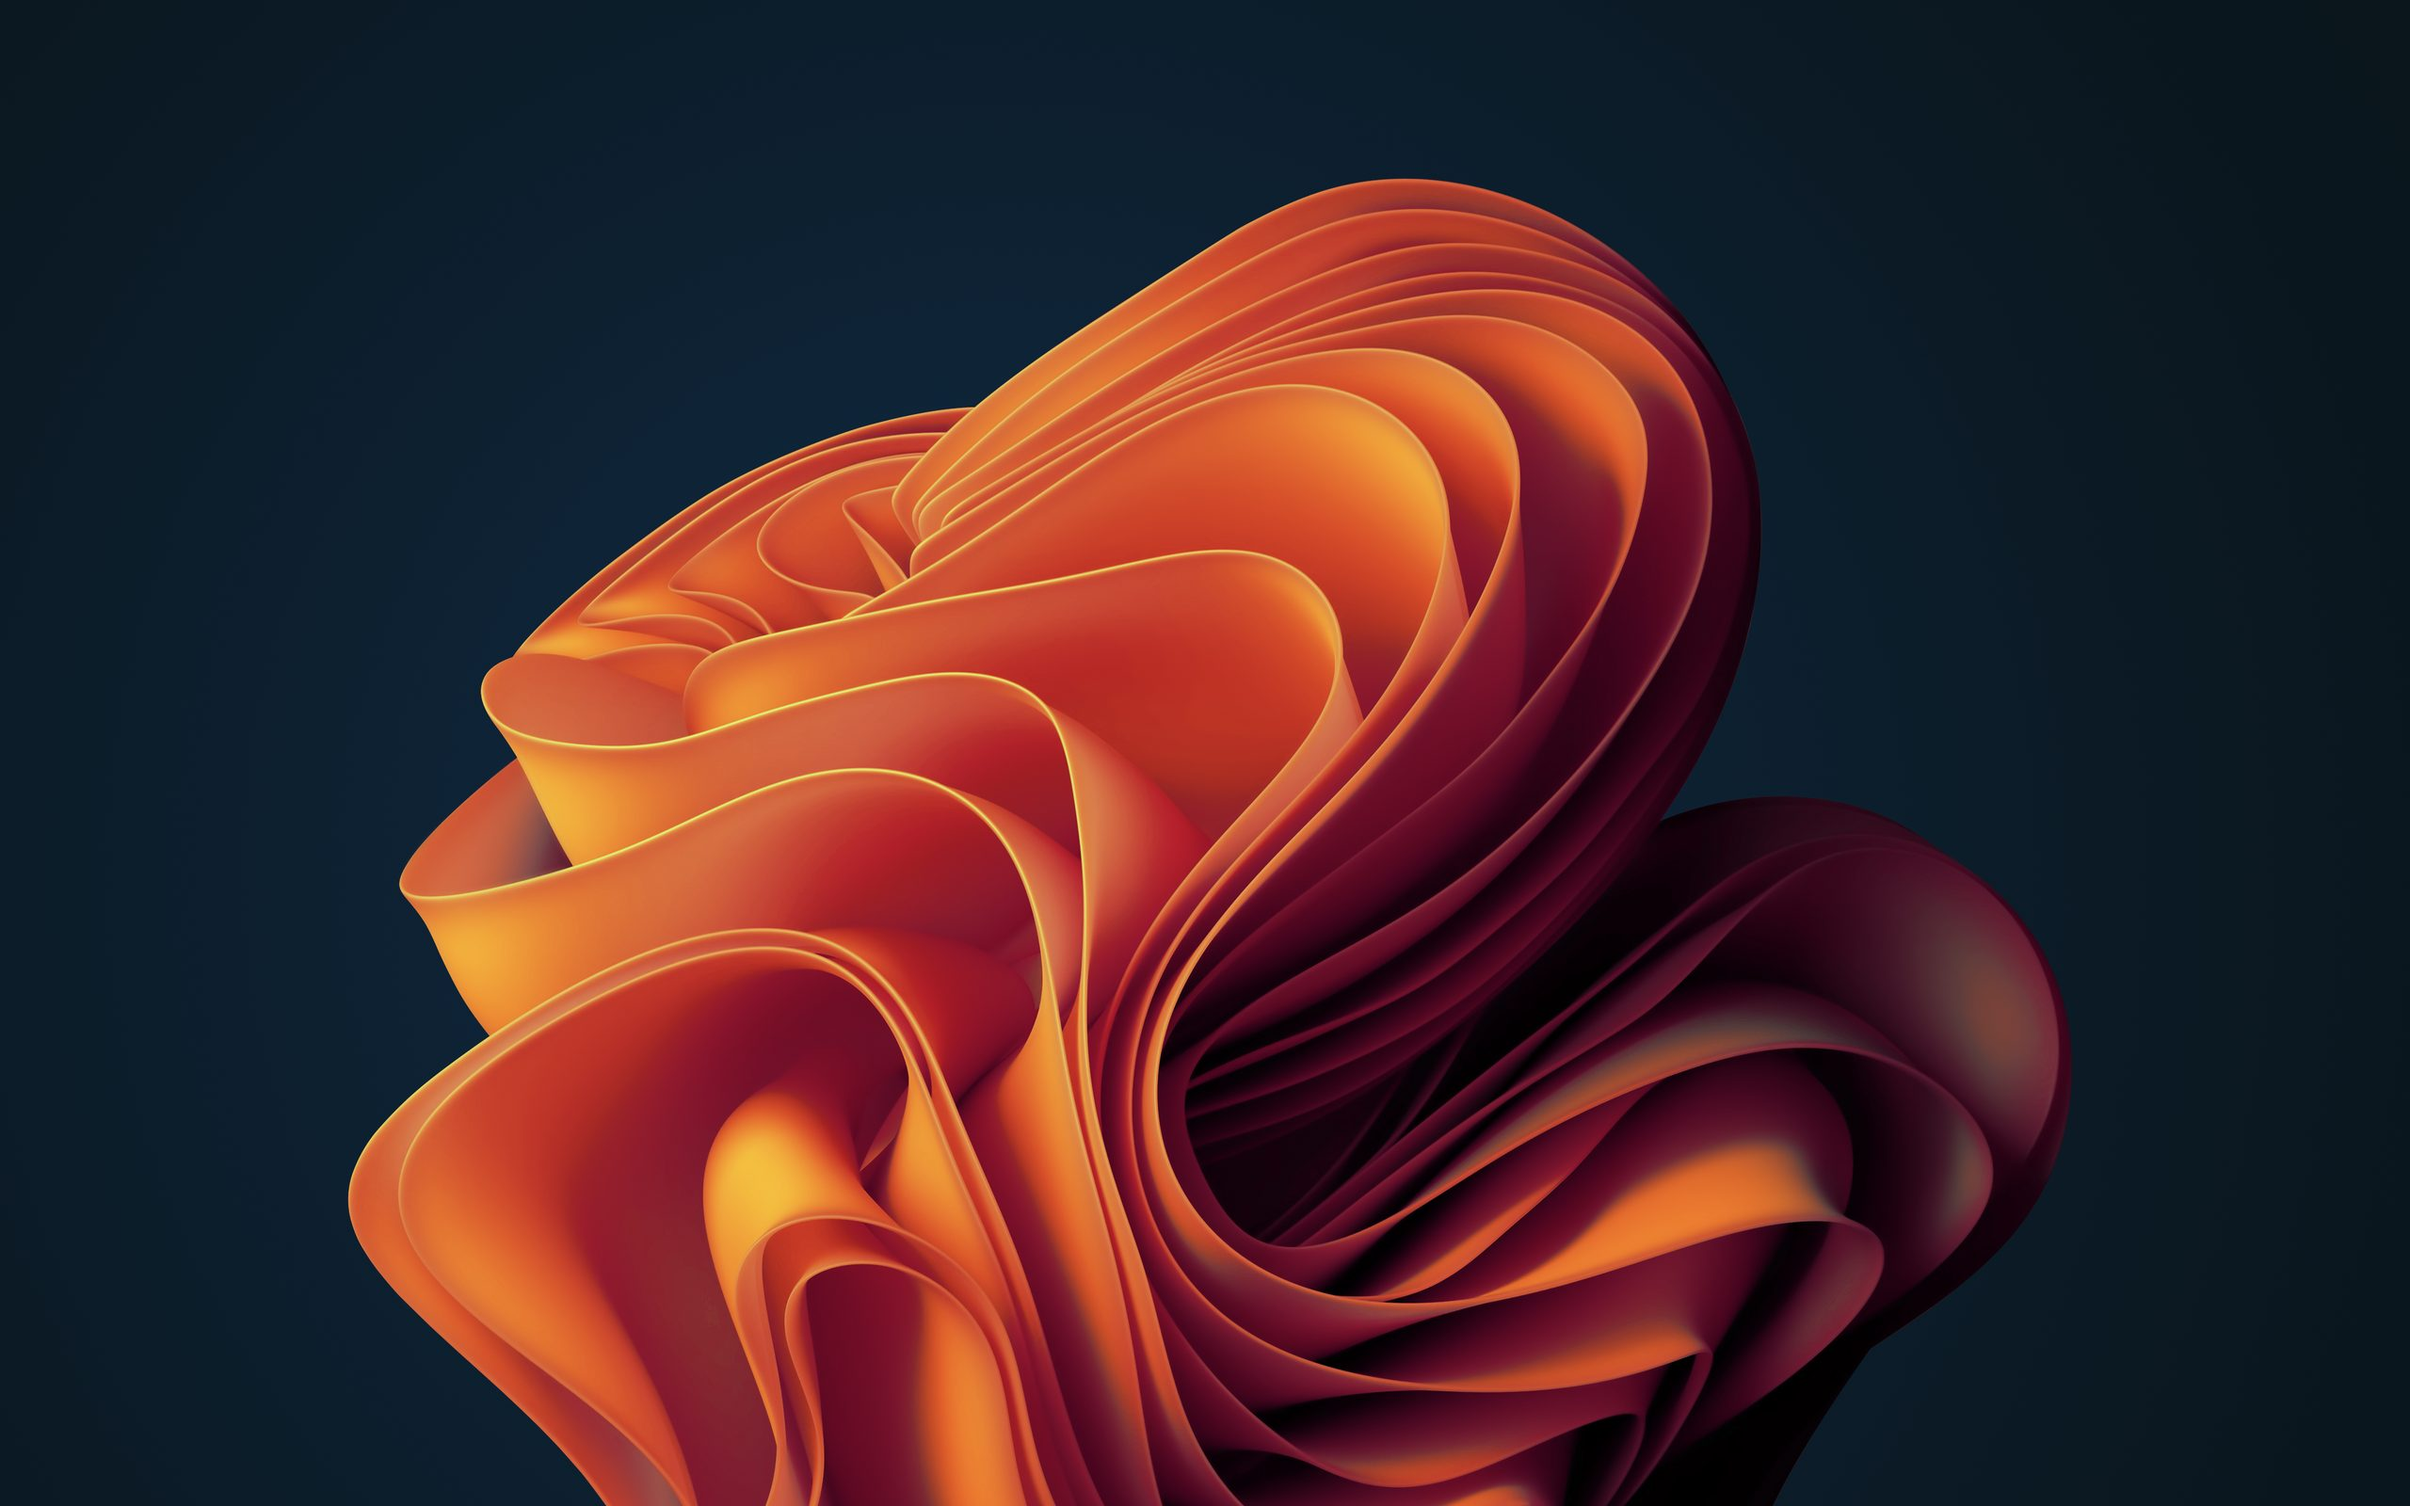
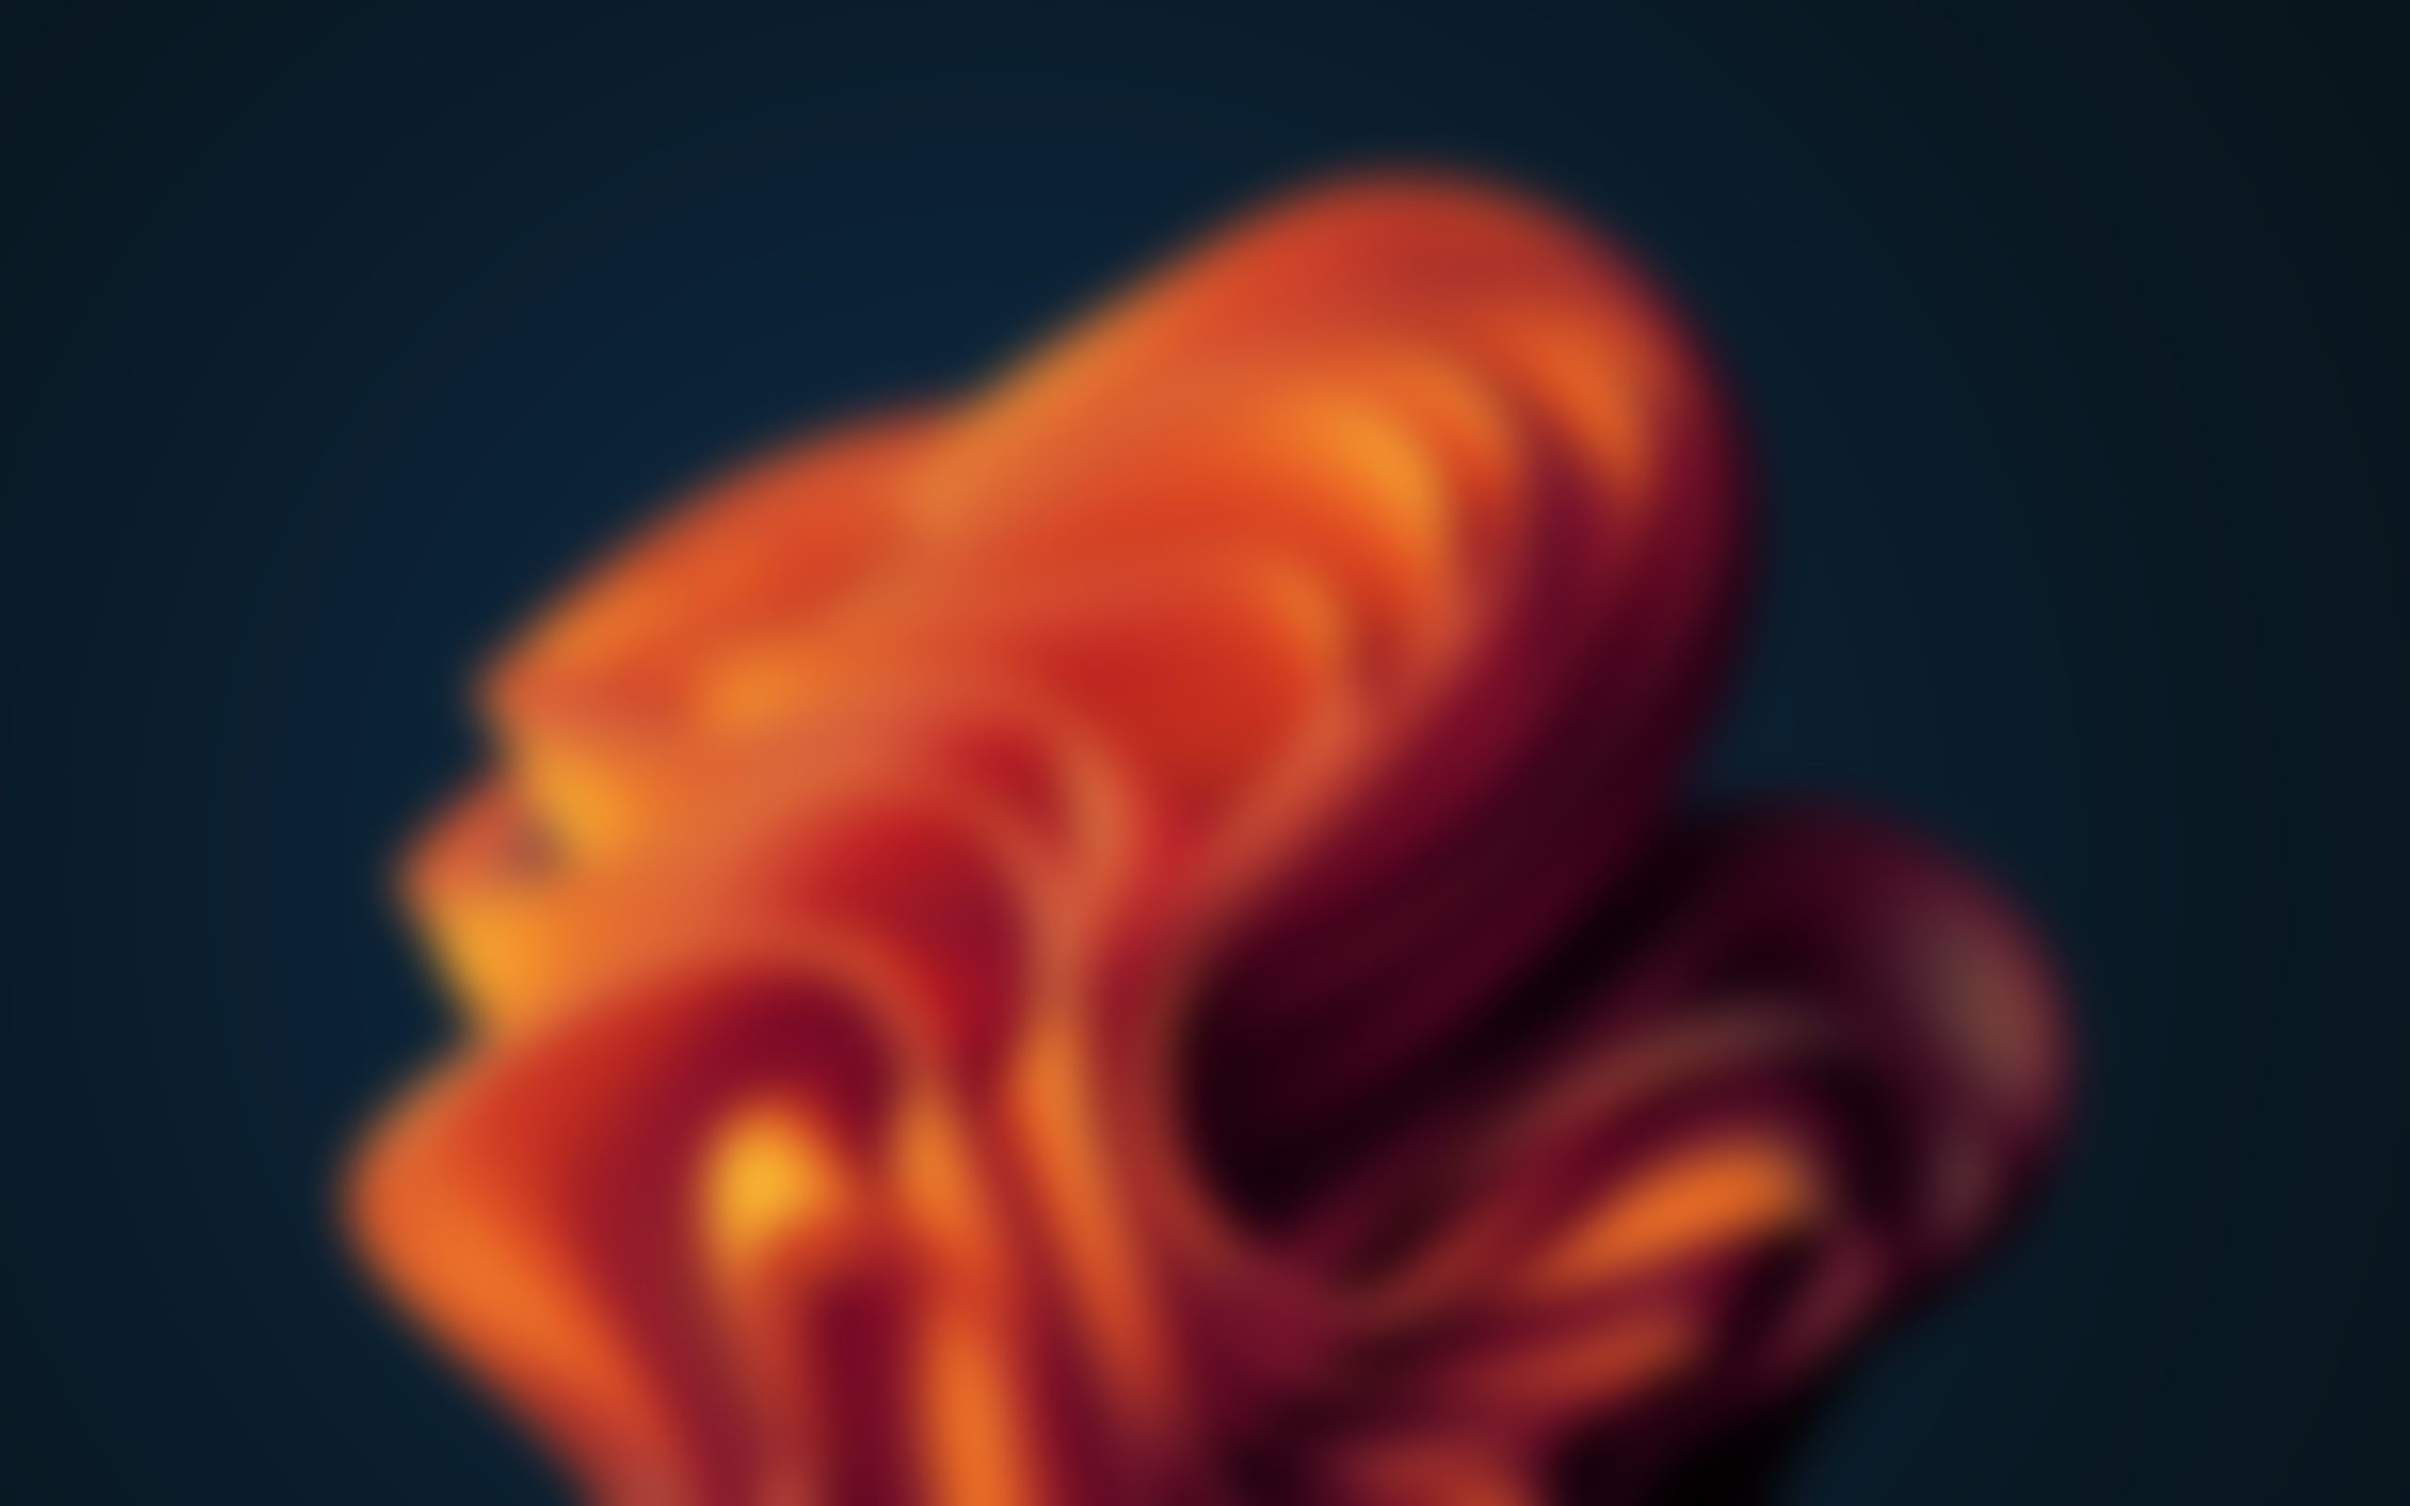
feat(themes): Codex 壁纸预模糊替代运行时滤镜，面板头部透明化
- 壁纸打包前预模糊（高斯 24px + 轻度提饱和），body::before 退化为纯淡色
  蒙版，去掉全屏 backdrop-filter：消除 Chromium 文字抗锯齿降级导致的发虚，
  同时 tint 提至 0.65 让侧栏文字更清晰
- PanelContainer 头部（文件/变更页签栏）新增 data-lq-panelhead 并透明化，
  消除右上角的白色条带

diff --git a/src/themes/liquidGlass.ts b/src/themes/liquidGlass.ts
@@ -2,11 +2,12 @@
  * Codex 主题（id: liquid-glass）
  *
  * 色板：照搬默认 Eucalyptus，light/dark 两套（保持主题自包含，逐值复制）
- * 风格：codex 桌面端形态 —— body::before 固定磨砂层统一模糊壁纸，
+ * 风格：codex 桌面端形态 —— 整体背景为预模糊的 Windows 11 壁纸
+ * （深色模式用暗色版），body::before 淡色蒙版形成均匀磨砂，
  * 系统标题栏/侧栏/右栏/聊天窗缝隙透明叠加其上；主聊天窗口为唯一的
- * 白底圆角卡片（白色顶栏 + 白色正文）；整体背景为 Windows 11 壁纸
- * （深色模式用暗色版），不依赖系统窗效；全主题无投影，靠发丝边分层，
- * 左右侧栏分割线默认隐藏、hover 显现。
+ * 白底圆角卡片（白色顶栏 + 白色正文）；全主题无投影，靠发丝边分层，
+ * 左右侧栏分割线默认隐藏、hover 显现；磨砂不依赖系统窗效与运行时
+ * backdrop-filter，避免文字抗锯齿降级。
  * css 同时为 .glass/.glass-alt 浮层注入白底磨砂背景与 backdrop-filter，
  * 独立于设置页的毛玻璃开关。
  */
@@ -190,16 +191,15 @@ export const liquidGlassStyle: ThemeStylePreset = {
   background-image: url('${codexWallpaperDark}');
 }
 
-/* 整体磨砂层：统一模糊壁纸，系统标题栏/侧栏/右栏/聊天窗缝隙等 chrome 区域透明叠加其上 */
+/* 整体磨砂层：淡色蒙版叠在预模糊壁纸上形成均匀磨砂。
+   不用运行时 backdrop-filter：全屏滤镜会让 Chromium 文字抗锯齿降级，字体发虚 */
 :root:root body::before {
   content: '';
   position: fixed;
   inset: 0;
   z-index: -1;
   pointer-events: none;
-  background-color: hsl(var(--bg-100) / 0.55);
-  -webkit-backdrop-filter: blur(24px) saturate(160%);
-  backdrop-filter: blur(24px) saturate(160%);
+  background-color: hsl(var(--bg-100) / 0.65);
 }
 
 :root:root #root {
@@ -262,6 +262,11 @@ export const liquidGlassStyle: ThemeStylePreset = {
 
   :root:root [data-lq-surface='bottom'] {
     border-top-width: 1px;
+  }
+
+  /* 右栏/底栏面板头部：透明叠加磨砂层 */
+  :root:root [data-lq-panelhead] {
+    background-color: transparent;
   }
 
   /* 左右侧栏分割线：默认隐藏，鼠标移上时显现 */

diff --git a/src/themes/themes.test.ts b/src/themes/themes.test.ts
@@ -156,11 +156,12 @@ describe('liquid glass floating layout css', () => {
     expect(css).toContain('data-lq-chatbody')
     expect(css).toContain('background-color: hsl(var(--bg-000));')
     expect(css).toMatch(/\[data-lq-header\] \{\s+background-color: hsl\(var\(--bg-000\)\);/)
-    // 整体磨砂层：body::before 统一模糊壁纸（覆盖系统标题栏与聊天窗四周缝隙）
-    expect(css).toMatch(/body::before \{[^}]*hsl\(var\(--bg-100\) \/ 0\.55\)/)
-    expect(css).toMatch(/body::before \{[^}]*backdrop-filter: blur\(24px\)/)
-    // 侧栏/右栏/底栏：透明叠加磨砂层（无圆角）
+    // 整体磨砂层：body::before 纯蒙版，壁纸预模糊（无运行时滤镜，防文字发虚）
+    expect(css).toMatch(/body::before \{[^}]*hsl\(var\(--bg-100\) \/ 0\.65\)/)
+    expect(css).not.toMatch(/body::before \{[^}]*backdrop-filter/)
+    // 侧栏/右栏/底栏：透明叠加磨砂层（无圆角）；面板头部透明
     expect(css).toContain('border-radius: 0')
+    expect(css).toContain('[data-lq-panelhead]')
     // 左右侧栏分割线：默认隐藏，hover 显现
     expect(css).toContain('border-color: transparent')
     expect(css).toContain("[data-lq-surface='sidebar']:hover")

diff --git a/src/components/PanelContainer.tsx b/src/components/PanelContainer.tsx
@@ -303,7 +303,7 @@ export const PanelContainer = memo(function PanelContainer({
   return (
     <>
       {/* Header with Tabs */}
-      <div className={`${position === 'right' ? 'mobile-safe-topbar-14' : ''} flex items-center justify-between px-3 z-20 bg-bg-100 relative shrink-0`}>
+      <div data-lq-panelhead className={`${position === 'right' ? 'mobile-safe-topbar-14' : ''} flex items-center justify-between px-3 z-20 bg-bg-100 relative shrink-0`}>
         {/* Tabs Container - 水平滚动 */}
         <div
           ref={tabsContainerRef}
